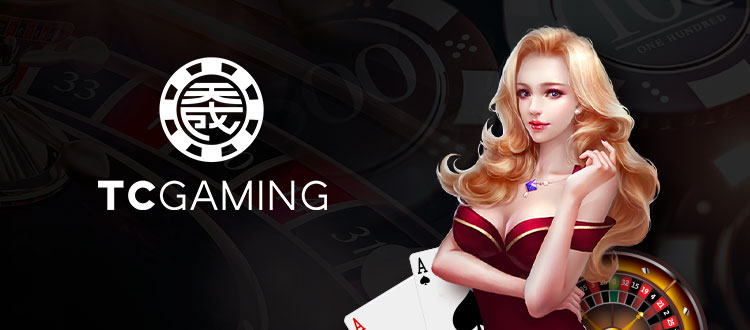
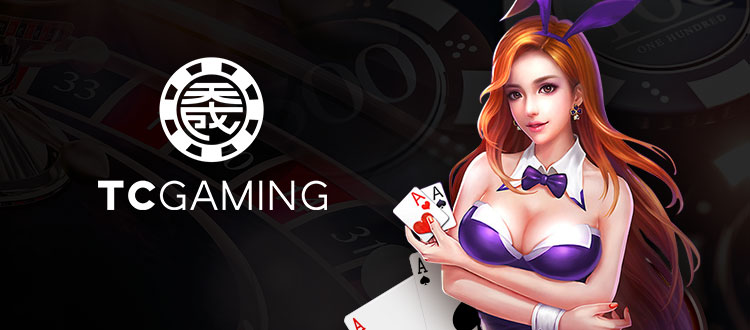
Changes: Add TCG games, assets pending.

Changed region(s): [[0.5213, 0.0, 0.9507, 1.0]]

diff --git a/src/components/App/Header.js b/src/components/App/Header.js
@@ -14,6 +14,7 @@ import {
   SHOWING_DIALOG,
   SHOW_LOGIN,
   GameTypeEnum,
+  GameService,
 } from "@Inwoker/tgs-api";
 
 import TimerPNG from "../../assets/images/timer.png";
@@ -608,6 +609,29 @@ class Header extends Component {
       </CustomLink>
     );
   };
+
+  handleJoinLotteryGame = (name) => {
+    if (this.props.account.token != null) {
+      GameService.GetGameList(name, GameTypeEnum.LOTTERYLOBBY).then((e) => {
+        if (e.IsSuccess) {
+          GameService.JoinGame(e.data[0].id, name).then((response) => {
+            if (response.IsSuccess) {
+              this.setState({ ...this.state, maintenance: false });
+              window.open(
+                response.data.url,
+                "_blank",
+                "directories=no,titlebar=no,toolbar=no,location=no,status=no,menubar=no,scrollbars=no,resizable=no,width=1280,height=720"
+              );
+            } else {
+              this.setState({ ...this.state, maintenance: true });
+            }
+          });
+        }
+      });
+    } else {
+      this.props.showLogin(true);
+    }
+  };
   handleJoinGameClick = (gameType, path, gameCode, url) => {
     var slotPageGameType = [
       GameTypeEnum.SLOT,
@@ -806,52 +830,40 @@ class Header extends Component {
                                   (game) =>
                                     item.gameType.indexOf(game.type) >= 0
                                 );
-                              return list
-                                .filter((a) => {
-                                  if (a.abbreviation.includes("TCG")) {
-                                    switch (config.currency) {
-                                      case "CNY":
-                                        return (
-                                          a.abbreviation === "TCG_LOTTO" ||
-                                          a.abbreviation === "TCG_SEA"
-                                        );
-                                      case "VND":
-                                        return (
-                                          a.abbreviation === "TCG_LOTTO_VN" ||
-                                          a.abbreviation === "TCG_SEA"
-                                        );
-                                      default:
-                                        return a.abbreviation === "TCG_SEA";
-                                    }
-                                  } else {
-                                    return a;
-                                  }
-                                })
-                                .map((game, index) => {
-                                  return (
-                                    <GameFrame
-                                      key={index}
-                                      style={{
-                                        width: `calc(1264px/${list.length})`,
-                                      }}
-                                      maintenance={game.status != 0}
-                                    >
-                                      <GameFrameWrapper>
-                                        <Maintenance>
-                                          {i18n.t("transfer.maintenance")}
-                                        </Maintenance>
-                                        <GameImg
-                                          index={index}
-                                          img={`${
-                                            process.env.PUBLIC_URL
-                                          }/assets/images/pcHeaderMenu/${
-                                            item.path
-                                          }/${game.abbreviation.toLowerCase()}.png`}
-                                          text={i18n.t(
-                                            `${game.abbreviation}.${item.path}`
-                                          )}
-                                          alt=""
-                                          onClick={() => {
+                              return list.map((game, index) => {
+                                return (
+                                  <GameFrame
+                                    key={index}
+                                    style={{
+                                      width: `calc(1264px/${list.length})`,
+                                    }}
+                                    maintenance={game.status != 0}
+                                  >
+                                    <GameFrameWrapper>
+                                      <Maintenance>
+                                        {i18n.t("transfer.maintenance")}
+                                      </Maintenance>
+                                      <GameImg
+                                        index={index}
+                                        img={`${
+                                          process.env.PUBLIC_URL
+                                        }/assets/images/pcHeaderMenu/${
+                                          item.path
+                                        }/${game.abbreviation.toLowerCase()}.png`}
+                                        text={i18n.t(
+                                          `${game.abbreviation}.${item.path}`
+                                        )}
+                                        alt=""
+                                        onClick={() => {
+                                          if (
+                                            game.type ===
+                                              GameTypeEnum.LOTTERYLOBBY ||
+                                            game.type === GameTypeEnum.LOBBY
+                                          ) {
+                                            this.handleJoinLotteryGame(
+                                              game.abbreviation
+                                            );
+                                          } else {
                                             this.handleJoinGameClick(
                                               game.type,
                                               item.path,
@@ -863,12 +875,13 @@ class Header extends Component {
                                                 "/" +
                                                 game.abbreviation
                                             );
-                                          }}
-                                        ></GameImg>
-                                      </GameFrameWrapper>
-                                    </GameFrame>
-                                  );
-                                });
+                                          }
+                                        }}
+                                      ></GameImg>
+                                    </GameFrameWrapper>
+                                  </GameFrame>
+                                );
+                              });
                             })()}
                           </MouseOverInner>
                         </MouseOverBackground>

diff --git a/src/components/App/Lottery/index.js b/src/components/App/Lottery/index.js
@@ -5,7 +5,7 @@ import styled, { css, keyframes } from "styled-components";
 import BtnRedPNG from "../../../assets/images/btn-red.png";
 import BtnRedHoverPNG from "../../../assets/images/btn-red-hover.png";
 
-import { SHOW_LOGIN, GameEnum, GameTypeEnum } from "@Inwoker/tgs-api";
+import { SHOW_LOGIN, GameService, GameTypeEnum } from "@Inwoker/tgs-api";
 
 import _633Lottery from "../../../assets/images/lottery/633-lotteryball.png";
 import _633Description from "../../../assets/images/lottery/633-lotterydescription.png";
@@ -133,18 +133,24 @@ class Lottery extends Component {
       });
     }
   }
-  handleJoinGameClick = (params) => {
+  handleJoinGameClick = (name) => {
     if (this.props.account.token != null) {
-      window.open(
-        "/" +
-          i18n.language +
-          "/joingame/" +
-          GameTypeEnum.LOTTERYLOBBY +
-          "/" +
-          params.toUpperCase(),
-        "_blank",
-        "directories=no,titlebar=no,toolbar=no,location=no,status=no,menubar=no,scrollbars=no,resizable=no,width=1280,height=720"
-      );
+      GameService.GetGameList(name, GameTypeEnum.LOTTERYLOBBY).then((e) => {
+        if (e.IsSuccess) {
+          GameService.JoinGame(e.data[0].id, name).then((response) => {
+            if (response.IsSuccess) {
+              this.setState({ ...this.state, maintenance: false });
+              window.open(
+                response.data.url,
+                "_blank",
+                "directories=no,titlebar=no,toolbar=no,location=no,status=no,menubar=no,scrollbars=no,resizable=no,width=1280,height=720"
+              );
+            } else {
+              this.setState({ ...this.state, maintenance: true });
+            }
+          });
+        }
+      });
     } else {
       this.props.showLogin(true);
     }
@@ -169,39 +175,18 @@ class Lottery extends Component {
               style={{ height: "100%" }}
             >
               <LogoHolderContainer>
-                {this.state.list
-                  .filter((a) => {
-                    if (a.abbreviation.includes("TCG")) {
-                      switch (config.currency) {
-                        case "CNY":
-                          return (
-                            a.abbreviation === "TCG_LOTTO" ||
-                            a.abbreviation === "TCG_SEA"
-                          );
-                        case "VND":
-                          return (
-                            a.abbreviation === "TCG_LOTTO_VN" ||
-                            a.abbreviation === "TCG_SEA"
-                          );
-                        default:
-                          return a.abbreviation === "TCG_SEA";
-                      }
-                    } else {
-                      return a;
-                    }
-                  })
-                  .map((data, index) => {
-                    return (
-                      <LogoHolder
-                        id={data.abbreviation}
-                        selected={this.state.selected === data.abbreviation}
-                        src={`${process.env.PUBLIC_URL}/assets/images/pcGamePage/lottery/${data.abbreviation}.png`}
-                        onClick={() => {
-                          this.handleGameChange(data.abbreviation);
-                        }}
-                      />
-                    );
-                  })}
+                {this.state.list.map((data, index) => {
+                  return (
+                    <LogoHolder
+                      id={data.abbreviation}
+                      selected={this.state.selected === data.abbreviation}
+                      src={`${process.env.PUBLIC_URL}/assets/images/pcGamePage/lottery/${data.abbreviation}.png`}
+                      onClick={() => {
+                        this.handleGameChange(data.abbreviation);
+                      }}
+                    />
+                  );
+                })}
               </LogoHolderContainer>
 
               <CenterText>{i18n.t("VR.desc")}</CenterText>
